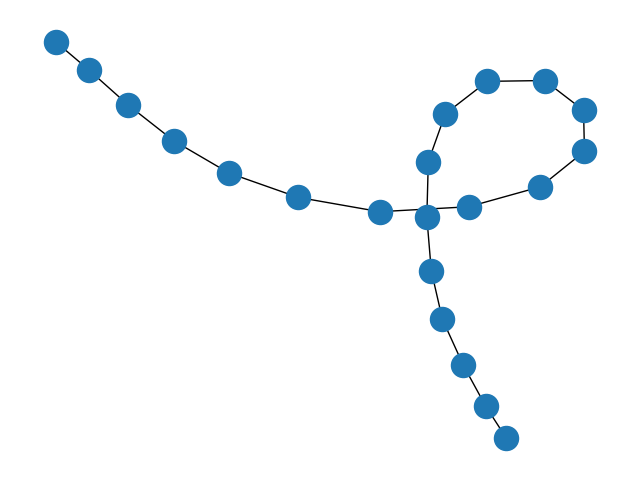
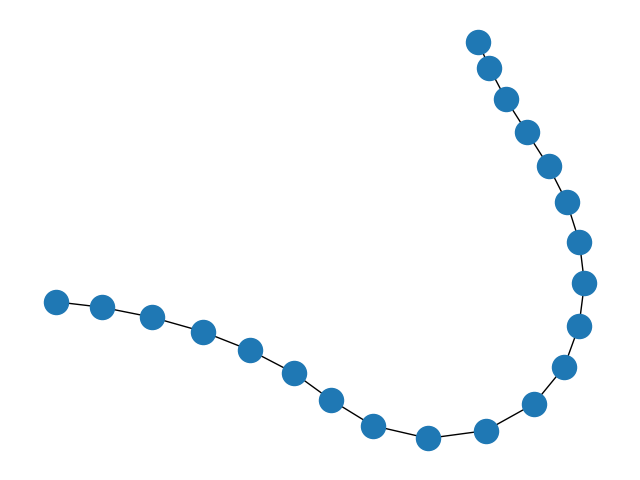
Organizando e comentando o código

diff --git a/apple_picker.py b/apple_picker.py
@@ -92,72 +92,94 @@ def find_apple_in_laser_range(x_pos, apples):
 # to represent and predict how the world works
 class WorldModel:
     def __init__(self):
-        # Grafo ponderado que conterá as informações das seções da tela a serem visitadas pelo agente
-        # Cada seção será representada por um nó
-        # As arestas do grafo terão o peso referente à distância de uma seção para outra
         self.graph = nx.Graph()
         self.apple_speed = apple_speed
         self.apple_radius = apple_radius
+        # Representa o tamanho da seção da maçã
+        self.apple_section_size = apple_radius * 2 - 1
+        # Limite direito da tela
+        self.screen_right_pos_limit = screen_width - lever_width/2 - 1
+        # Limite esquerdo da tela
+        self.screen_left_pos_limit = 0 - lever_width/2
 
-    def addNode(self, id, info=None):
-        self.graph.add_node(id, info=info)
+        self.create_map()
 
-    def getNodes(self):
+    # Cria o "mapa" do mundo, composto pelas seções da maçã
+    # Cada seção é representada pelo nó do grafo, e o id é sua primeira posição no eixo x
+    # O peso da aresta é o tamanho da seção
+    # Cada nó tem pelo menos uma aresta e no máximo duas
+    def create_map(self):
+        sections_positions = list(range(int(self.screen_left_pos_limit), int(self.screen_right_pos_limit), self.apple_section_size))
+        for i in range(len(sections_positions)):
+            self.add_node(sections_positions[i])
+            if i > 0:
+                self.add_edge(sections_positions[i - 1], sections_positions[i], self.apple_section_size)
+        self.save_graph_img()
+
+    def add_node(self, node_id, info=None):
+        self.graph.add_node(node_id, info=info)
+
+    def get_nodes(self):
         return self.graph.nodes()
 
-    def addEdge(self, node1, node2, weight):
+    def add_edge(self, node1, node2, weight):
         self.graph.add_edge(node1, node2, weight=weight)
 
-    def hasNode(self, node):
+    def has_node(self, node):
         return self.graph.has_node(node)
 
-    def updateApplesDistances(self):
-        nodes = self.getNodes()
-        for node_pos in nodes:
-            info = nodes[node_pos]['info']
+    def set_node_info(self, node_id, info):
+        if self.has_node(node_id):
+            nodes = self.get_nodes()
+            nodes[node_id]['info'] = info
+
+    # Atualiza o estado do mundo após cada decisão
+    # As maçãs caem uma certa quantidade de pixels após cada decisão
+    def update_apples_distances(self):
+        nodes = self.get_nodes()
+        for node_id in nodes:
+            info = nodes[node_id]['info']
+            # As maçãs só desaparecem do mapa quando seu centro atinge o chão
             if info and info['distance'] > -self.apple_radius:
                 info['distance'] -= self.apple_speed
             else:
-                nodes[node_pos]['info'] = None
+                nodes[node_id]['info'] = None
 
-    def searchClosestGreenAppleToGround(self):
-        nodes = self.getNodes()
+    # Busca qual é a maçã que está mais próxima de cair no chão
+    def search_closest_green_apple_to_ground(self):
+        nodes = self.get_nodes()
         min_distance = None
-        closest_apple = None
-        for node_pos in nodes:
-            info = nodes[node_pos]['info']
-            if(info and info['color'] == 'green'):
+        closest_green_apple = None
+        for node in nodes:
+            info = nodes[node]['info']
+            if info and info['color'] == 'green':
                 distance = info['distance']
-                if(min_distance == None or distance < min_distance):
+                if min_distance is None or distance < min_distance:
                     min_distance = distance
-                    closest_apple = node_pos
-        return closest_apple
+                    closest_green_apple = node
+        return closest_green_apple
 
-    def appleIsReadyToPick(self, closest_apple, lever_pos, lever_speed):
-        nodes = self.getNodes()
-        distance = nodes[closest_apple]['info']['distance']
-        num_decisions_to_fall = distance/self.apple_speed
-        lever_apple_distance = abs(closest_apple - lever_pos)
-        num_decisions_to_reach = lever_apple_distance/lever_speed
-        if(num_decisions_to_fall == num_decisions_to_reach or num_decisions_to_fall == num_decisions_to_reach + 1):
-            return True
-        return False
-
-    def getFallenRedApplesSections(self):
-        nodes = self.getNodes()
+    # Busca quais são as seções em que, a qualquer instante, é possível cair uma maçã vermelha
+    def get_fallen_red_apples_sections(self):
+        nodes = self.get_nodes()
         red_sections = []
-        for node_pos in nodes:
-            info = nodes[node_pos]['info']
-            if(info and info['color'] == 'red' and info['distance'] <= 10):
-                red_section = [node_pos - (self.apple_radius - 1),
-                               node_pos + (self.apple_radius - 1)]
+
+        for apple_pos in nodes:
+            info = nodes[apple_pos]['info']
+            if info and info['color'] == 'red' and info['distance'] <= 10:
+                # O cesto só captura se tocar no centro da maçã
+                red_section = [apple_pos - (self.apple_radius - 1),
+                               apple_pos + (self.apple_radius - 1)]
                 red_sections.append(red_section)
         return red_sections
 
-    def getShortestPath(self, source, target):
-        return nx.shortest_path(self.graph, source, target, weight='weight')
+    # Retorna o caminho mais curto entre dois nós
+    def get_shortest_path(self, source, target):
+        shortest_path = nx.shortest_path(self.graph, source, target, weight='weight')
+        shortest_path.remove(source)
+        return shortest_path
 
-    def saveGraphImg(self):
+    def save_graph_img(self):
         nx.draw(self.graph)
         plt.savefig('graph.png')
 
@@ -166,90 +188,101 @@ class WorldModel:
 
 
 class Agent:
-    def __init__(self, wm, max_lever_displacement, arena_width):
+    def __init__(self, wm, max_lever_displacement):
         self.worlmodel = wm
         # O maximo de unidades que voce pode se mover na decisao
         self.max_lever_displacement = max_lever_displacement
-
-        # Tamanho da arena
-        self.arena_width = arena_width
-
         # Tamanho do cesto
         self.lever_width = lever_width
-
-        # Limite direito da tela
-        self.screen_right_pos_limit = arena_width - lever_width/2 - 1
-
-        # Limite esquerdo da tela
-        self.screen_left_pos_limit = 0 - lever_width/2
-
         # Armazena o limite máximo de movimentação do agente
         self.lever_speed_limit = lever_width/2 + max_lever_displacement
 
     # Essa função recebe dados dos sensores como argumento
     # e retorna o nova posicao. A nova posicao nao pode ser
     # mais distante que max_lever_displacement da anterior
-    def decision(self, lever_pos, laser_scan, score, shortest_path, direction):
+    def decision(self, lever_pos, laser_scan, score, closest_apple_path, direction):
         print(f"{lever_pos=}, {laser_scan=}, {score=}")
 
-        nodes = self.worlmodel.getNodes()
+        desired_lever_pos = lever_pos
+        self.worlmodel.set_node_info(lever_pos, laser_scan)
 
-        if(self.worlmodel.hasNode(lever_pos)):
-            nodes[lever_pos]['info'] = laser_scan
+        if len(closest_apple_path):
+            desired_lever_pos = self.move_through_path(closest_apple_path)
         else:
-            self.worlmodel.addNode(lever_pos, laser_scan)
-            nodes = self.worlmodel.getNodes()
+            closest_apple = self.worlmodel.search_closest_green_apple_to_ground()
 
-        # Representa o tamanho da seção da maçã
-        apple_section_size = apple_radius * 2 - 1
+            if closest_apple and self.is_apple_ready_to_pick(closest_apple):
+                closest_apple_path = self.worlmodel.get_shortest_path(lever_pos, closest_apple)
+                if len(closest_apple_path):
+                    desired_lever_pos = self.move_through_path(closest_apple_path)
+            else:
+                desired_lever_pos, direction = self.do_sweep(direction)
 
+        red_sections = self.worlmodel.get_fallen_red_apples_sections()
+        desired_lever_pos = self.avoid_red_sections(red_sections, desired_lever_pos)
+
+        self.worlmodel.update_apples_distances()
+
+        return desired_lever_pos, closest_apple_path, direction
+
+    # Faz a varredura pelo mapa para coletar informações
+    # Movimenta na forma de zigue-zague, percorre toda a direita e depois toda a esquerda
+    def do_sweep(self, direction):
         desired_lever_pos = lever_pos
 
-        arena_sections = int(self.arena_width / apple_section_size)
-
-        if(direction == 'right'):
-            desired_lever_pos = lever_pos + apple_section_size
-            if(desired_lever_pos >= self.screen_right_pos_limit):
-                desired_lever_pos = lever_pos - apple_section_size
+        if direction == 'right':
+            desired_lever_pos = self.move_right(self.worlmodel.apple_section_size)
+            if desired_lever_pos >= self.worlmodel.screen_right_pos_limit:
+                desired_lever_pos = self.move_left(self.worlmodel.apple_section_size)
                 direction = 'left'
-        elif(direction == 'left'):
-            desired_lever_pos = lever_pos - apple_section_size
-            if(desired_lever_pos < self.screen_left_pos_limit):
-                desired_lever_pos = lever_pos + apple_section_size
+        elif direction == 'left':
+            desired_lever_pos = self.move_left(self.worlmodel.apple_section_size)
+            if desired_lever_pos < self.worlmodel.screen_left_pos_limit:
+                desired_lever_pos = self.move_right(self.worlmodel.apple_section_size)
                 direction = 'right'
 
-        if(self.worlmodel.hasNode(desired_lever_pos) == False):
-            self.worlmodel.addNode(desired_lever_pos)
-            weight = desired_lever_pos - lever_pos
-            self.worlmodel.addEdge(lever_pos, desired_lever_pos, weight)
+        return desired_lever_pos, direction
 
-        closest_apple = self.worlmodel.searchClosestGreenAppleToGround()
+    def move_right(self, steps):
+        return lever_pos + steps
 
-        if(len(shortest_path)):
-            desired_lever_pos = shortest_path[0]
-            shortest_path.remove(shortest_path[0])
-        elif(closest_apple and self.worlmodel.appleIsReadyToPick(closest_apple, lever_pos, apple_section_size)):
-            shortest_path = self.worlmodel.getShortestPath(
-                lever_pos, closest_apple)
-            if(len(shortest_path) >= 2):
-                shortest_path.remove(shortest_path[0])
-                desired_lever_pos = shortest_path[0]
-                shortest_path.remove(shortest_path[0])
-            else:
-                desired_lever_pos = lever_pos
+    def move_left(self, steps):
+        return lever_pos - steps
 
-        red_sections = self.worlmodel.getFallenRedApplesSections()
+    def move_through_path(self, path):
+        desired_lever_pos = path[0]
+        path.remove(path[0])
+        return desired_lever_pos
+
+    # Verifica se é o momento certo de caminhar para pegar a maçã
+    def is_apple_ready_to_pick(self, apple_pos):
+        nodes = self.worlmodel.get_nodes()
+
+        distance = nodes[apple_pos]['info']['distance']
+        num_decisions_to_fall = distance/self.worlmodel.apple_speed
+
+        lever_apple_distance = abs(apple_pos - lever_pos)
+        num_decisions_to_reach = lever_apple_distance/self.worlmodel.apple_section_size
+
+        if num_decisions_to_fall == num_decisions_to_reach - 1 or \
+                num_decisions_to_fall == num_decisions_to_reach or \
+                num_decisions_to_fall == num_decisions_to_reach + 1:
+            return True
+        return False
+
+    # Evita que o agente vá para seções em que é possível pegar uma maçã vermelha
+    def avoid_red_sections(self, red_sections, desired_lever_pos):
         if len(red_sections):
-            lever_range = list(range(int(desired_lever_pos - lever_width / 2), int(desired_lever_pos + lever_width / 2)))
+            lever_range = list(range(
+                int(desired_lever_pos - self.lever_width / 2),
+                int(desired_lever_pos + self.lever_width / 2))
+            )
             for red_section in red_sections:
                 red_section_range = list(range(red_section[0], red_section[1]))
-                intersecao = list(set(lever_range).intersection(set(red_section_range)))
-                if(len(intersecao)):
-                    desired_lever_pos = lever_pos
-        self.worlmodel.updateApplesDistances()
-
-        return desired_lever_pos, shortest_path, direction
-
+                pixels_intersection = list(set(lever_range).intersection(set(red_section_range)))
+                if len(pixels_intersection):
+                    return lever_pos
+        return desired_lever_pos
 
 ########################################################################
 #
@@ -259,7 +292,7 @@ class Agent:
 #
 ########################################################################
 wm = WorldModel()
-agent = Agent(wm, max_lever_displacement, screen_width)
+agent = Agent(wm, max_lever_displacement)
 
 running = True
 apples = []
@@ -331,7 +364,7 @@ while running:
     # Check if the game is over
     elapsed_time = (pygame.time.get_ticks() - game_start_time) / 1000
     if elapsed_time >= game_duration:
-        wm.saveGraphImg()
+        wm.save_graph_img()
         running = False
 
     # Update the display
